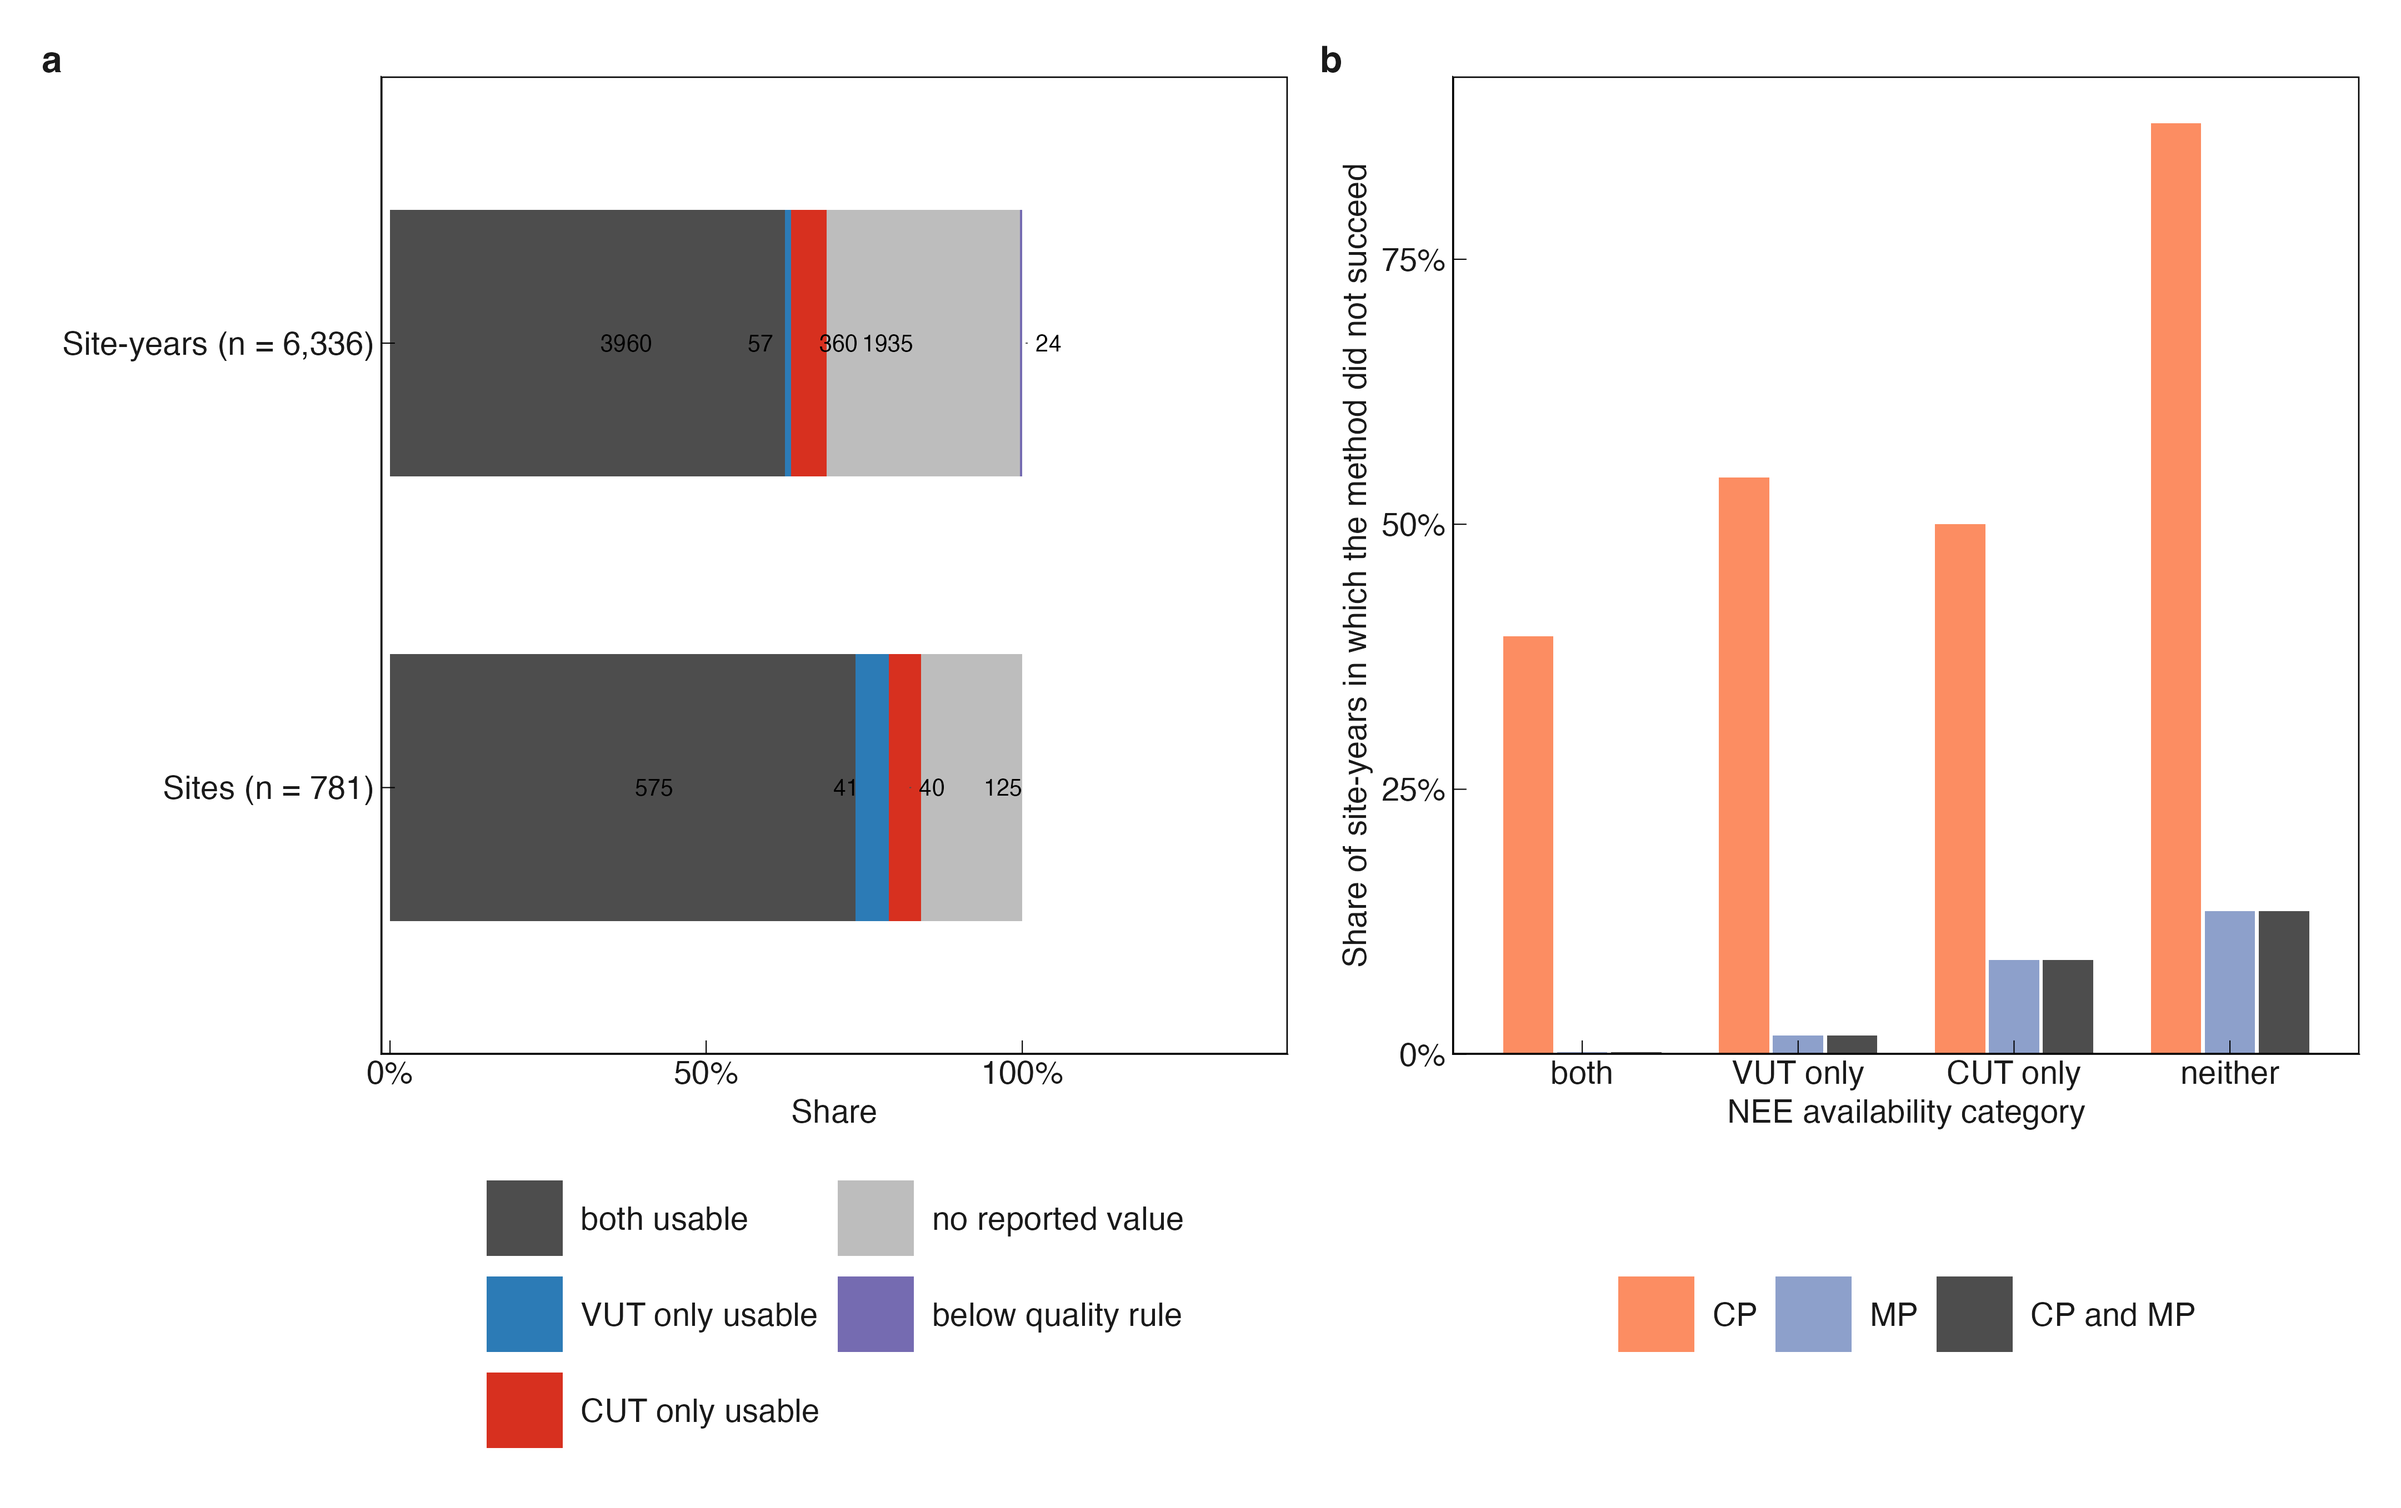
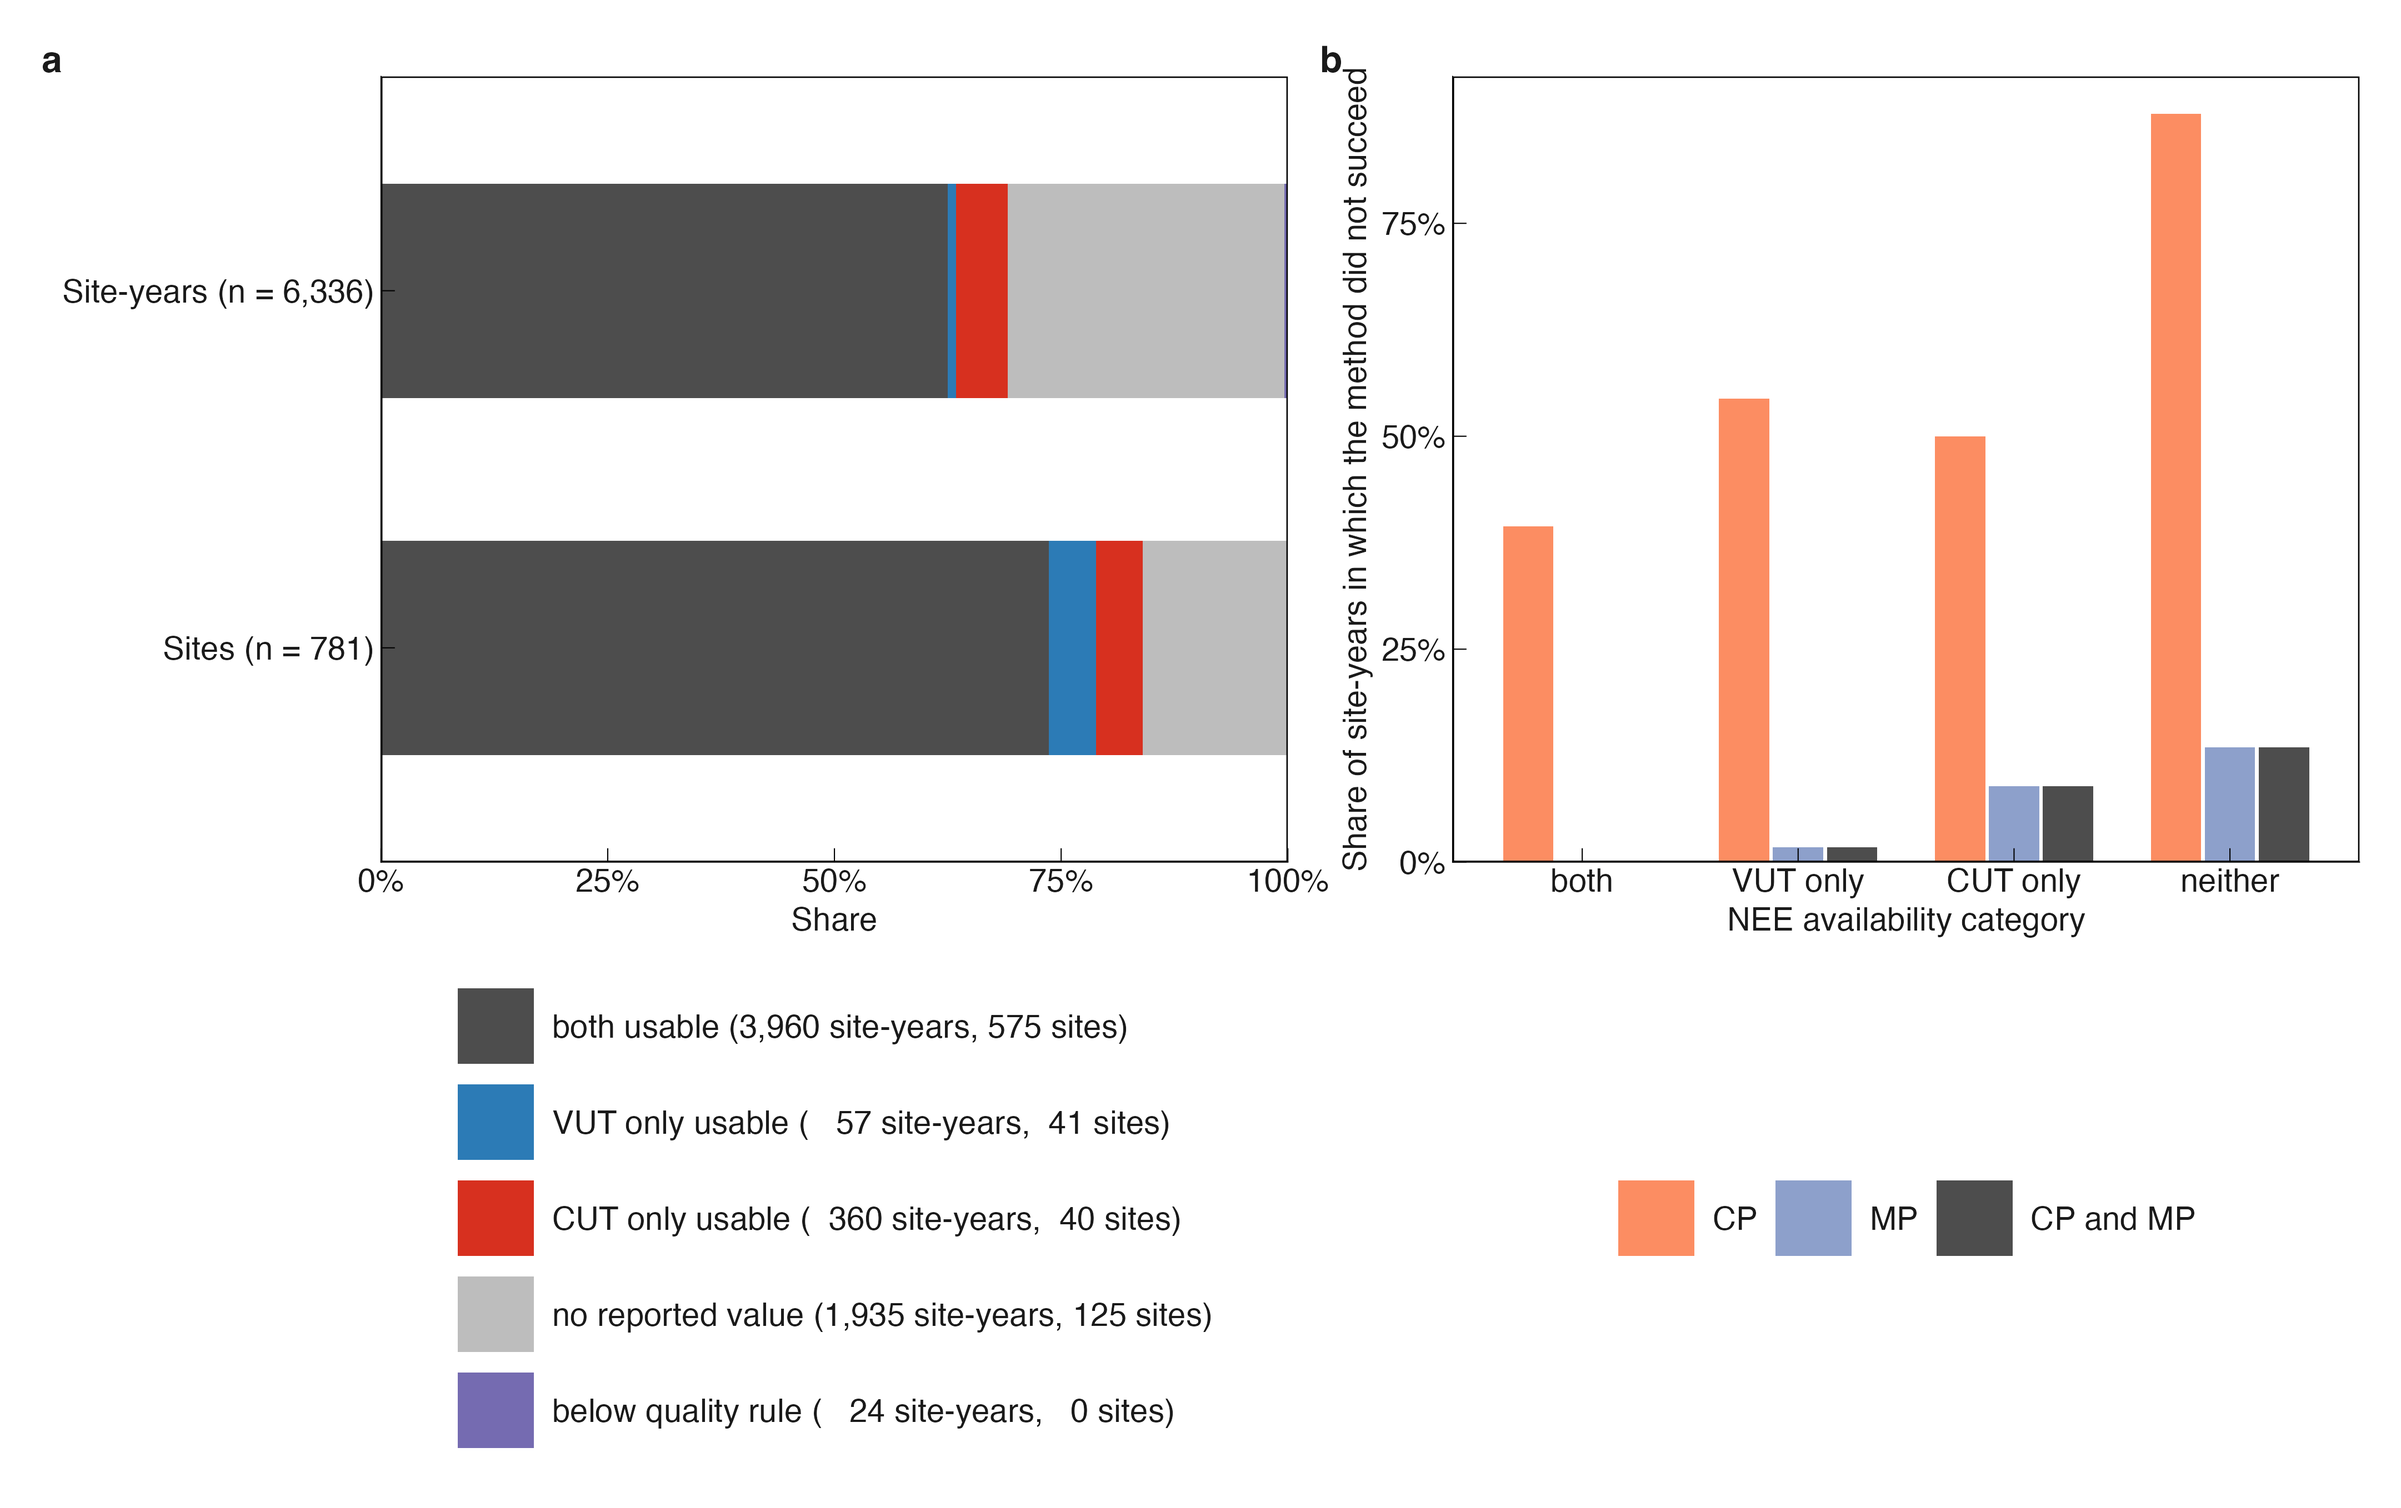
Final tidy of Technical Validation interim before circulation
Five fixes, no new analysis:
1. Figure 4a: removed in-bar count labels and ggrepel; counts now live in
   the legend labels, "<category> (<n> site-years, <n> sites)". X-axis
   set to a plain 0-100%.
2. Figure 3a: "within combined uncertainty" legend key (and the other two)
   bumped to full alpha and a larger override.aes size -- its actual
   points are deliberately faint (alpha=0.4, size=0.5, ~3,940 overlapping
   points), which otherwise left its legend key nearly invisible.
3. checks.txt Check 3 rewritten as an observation only, no cause offered:
   NEE_VUT_REF_NIGHT/_DAY are the average nighttime/daytime NEE from daily
   data (BIFVARINFO_YY VAR_INFO_DEFINITION), not a "day/night partitioning
   pipeline" -- that causal framing is withdrawn.
4. Appended errata (v) and (vi) to report.md: (v) withdraws "leftover from
   ad hoc extractions" for 30 of the 31 sub-daily sites (only US-MMS
   predates the snapshot lock session); (vi) narrows "no raw value exists"
   for the 125 sites to the annual product only -- NEE_VUT_REF is written
   as -9999 (not absent) in the raw YY files, and all 125 have daily NEE.
5. Figure 3 and 4 .legend.txt updated to match.

scripts/check_figure_format.R: 4/4 PASS.

diff --git a/review/diagnostics/data_quality_uncertainty/report.md b/review/diagnostics/data_quality_uncertainty/report.md
@@ -556,3 +556,19 @@ actually performed, and should not be relied on:**
     merely poorly gap-filled") — the data support the correlation (method failure
     tracks non-qualification, Stage 4's own table), not the causal mechanism asserted
     on top of it.
+
+(v) **Stage 0's "these 31 are evidently leftover from earlier ad hoc/test extractions"
+is withdrawn for all but one of the 31 sub-daily sites.** Checked against the 20
+September snapshot of record: 30 of the 31 sub-daily FLUXMET files were extracted on
+2026-09-20, the same session that produced the locked snapshot, and all 31 files'
+product name and version string match the snapshot's own record for that site
+exactly. Only `US-MMS` (the sole HR, not HH, site) predates that session, dated
+2026-05-25.
+
+(vi) **Stage 4's "no raw NEE_VUT_REF/NEE_CUT_REF value exists" for the 125 sites
+without a usable annual NEE applies to the annual product only, not to flux data for
+those sites generally.** Checked directly against the raw extracted YY CSVs: annual
+`NEE_VUT_REF` is written as the literal sentinel `-9999` (not a blank or absent
+field) in every one of the 5 sampled files, and `NEE_CUT_REF` is absent as a column
+entirely in all 5. At daily resolution, all 125 of the 125 sites have at least one
+day with a non-missing `NEE_VUT_REF` or `NEE_CUT_REF` value.
